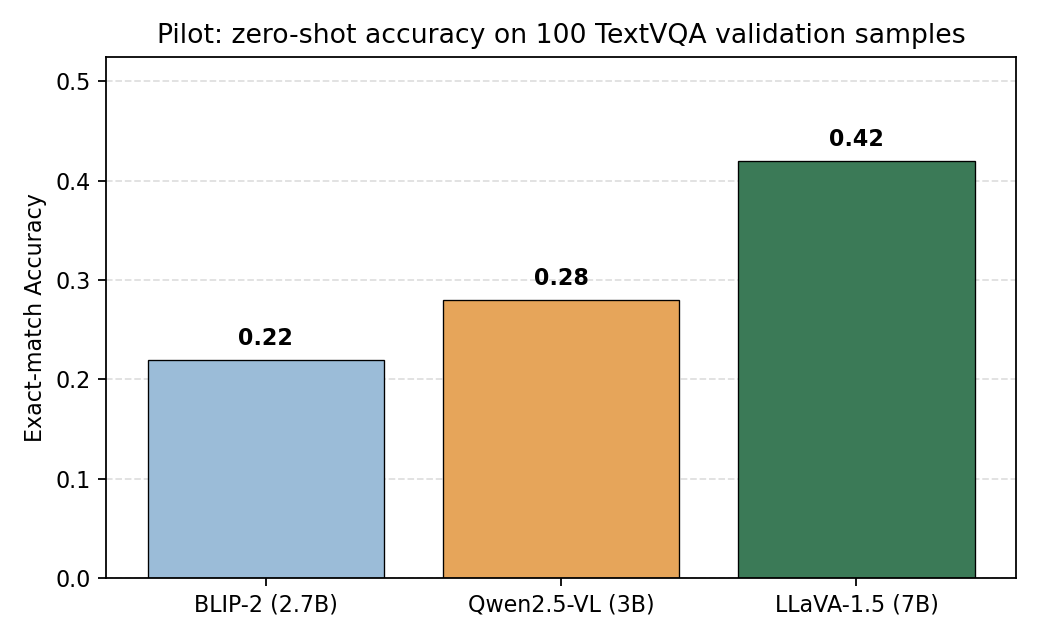
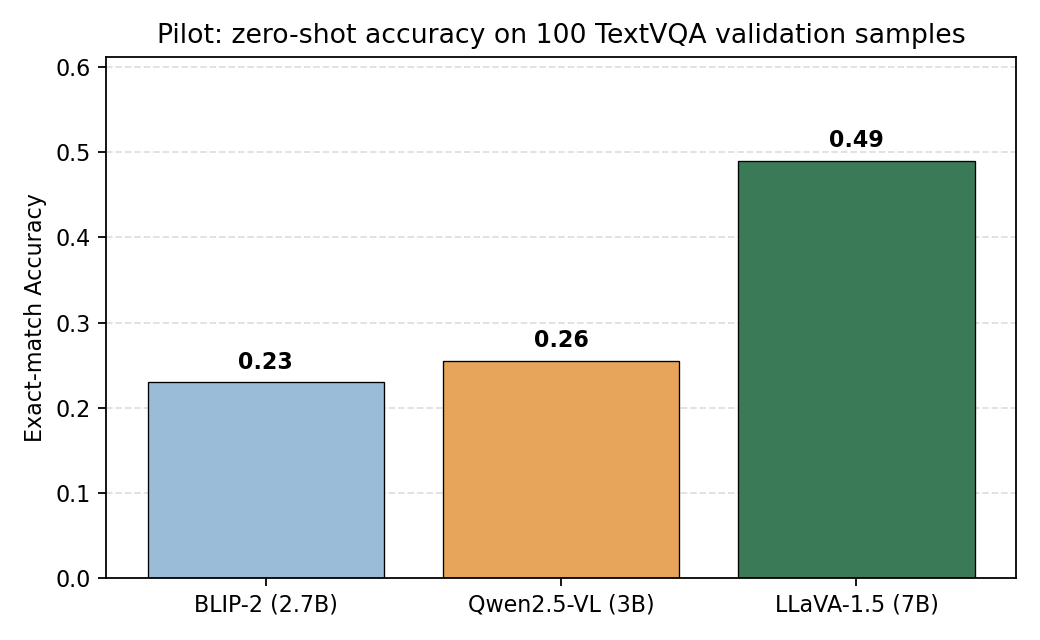
Update report + figures + README to reflect 1000-sample main / 200-sample pilot
Key findings updated:
- Pilot (n=200): LLaVA 0.490 >> Qwen 0.255 > BLIP-2 0.230 (was 0.42/0.28/0.22 at n=100)
- Main (n=1000): top 5 prompts statistically tied at acc=0.546-0.547
- Worst is now verbatim_ocr (0.504), not cot (cot is now 0.522)
- Per-category samples now defensible (smallest is color n=7, time n=27)
- 'time' category collapses further to 0.111 (was 0.13 at n=200)

All 5 figures regenerated from new data.

diff --git a/REPORT.md b/REPORT.md
@@ -26,8 +26,8 @@ Several lines of work shape the design space we operate in:
 
 ### 1.3 Contributions
 
-1. We benchmark three open-source VLMs (BLIP-2, Qwen2.5-VL-3B, LLaVA-1.5-7B) zero-shot on TextVQA validation and identify LLaVA-1.5 as the strongest of the three on a 100-sample pilot.
-2. We design and evaluate **ten** prompt variants on a 200-sample subset of validation, including two new optimized prompts (`verbatim_ocr`, `few_shot`) motivated by an error analysis of an earlier 30-sample CPU run.
+1. We benchmark three open-source VLMs (BLIP-2, Qwen2.5-VL-3B, LLaVA-1.5-7B) zero-shot on TextVQA validation and identify LLaVA-1.5 as the strongest of the three on a 200-sample pilot.
+2. We design and evaluate **ten** prompt variants on a 1000-sample subset of validation, including two new optimized prompts (`verbatim_ocr`, `few_shot`) motivated by an error analysis of an earlier 30-sample CPU run.
 3. We report the full required metric suite — exact accuracy, the official **VQA-soft** accuracy, BLEU, METEOR, ROUGE-L, plus optional substring-match, character-similarity, token F1/precision/recall, and **LLM-as-a-Judge** semantic similarity using sentence-transformer embeddings.
 4. We provide a **per-question-category** breakdown across nine semantic categories (yes/no, color, brand, number, time, price, …) that pinpoints exactly where the bottleneck lies.
 5. All code, prompts, raw predictions, and metrics are released in a public GitHub repository with a SLURM script so that the experiments are fully reproducible on Brown's Oscar cluster.
@@ -45,8 +45,8 @@ Several lines of work shape the design space we operate in:
 
 We use the official **TextVQA** dataset hosted on Hugging Face (`lmms-lab/textvqa`). The dataset provides 34.6k / 5k / 5.7k question–image pairs for train / validation / test, with each validation question annotated by ten human answers. Because we evaluate zero-shot, we report results on the validation split:
 
-* **Pilot** (model selection): 100 random validation samples, seed 42.
-* **Main** (prompt comparison): 200 random validation samples, seed 42 (the same indices are used for every prompt to make scores directly comparable).
+* **Pilot** (model selection): 200 random validation samples, seed 42.
+* **Main** (prompt comparison): 1000 random validation samples, seed 42 (the same 1000 indices are used for every prompt so all rankings are paired comparisons).
 
 Images are loaded as PIL objects in their native resolution and passed straight to each model's processor. No external OCR, no question rewriting.
 
@@ -116,15 +116,15 @@ The first stage answers a simple question: *which of the three open-source VLMs 
 
 ### 3.2 Main — Prompt Ablation (Stage 2)
 
-Once the model is chosen we perform a **single-variable ablation**: model = LLaVA-1.5, samples = 200, decoding = greedy, only the prompt changes. Each prompt is evaluated on the *same* 200 questions so paired comparisons are valid. We deliberately scaled up from the early 30-sample exploration because at n=30 the standard error on accuracy is roughly ±9 %, large enough to make any difference between two prompts statistically meaningless. At n=200 the standard error drops to ~3.5 %.
+Once the model is chosen we perform a **single-variable ablation**: model = LLaVA-1.5, samples = 1000, decoding = greedy, only the prompt changes. Each prompt is evaluated on the *same* 1000 questions so paired comparisons are valid. We deliberately scaled up from the early 30-sample exploration because at n=30 the standard error on accuracy is roughly ±9 %, large enough to make any difference between two prompts statistically meaningless. At n=200 it drops to ~3.5 %, and at **n=1000** it is **~1.6 %**, comfortably tight enough to distinguish prompts that differ by 3 absolute points or more.
 
 ### 3.3 Per-Category Breakdown (Stage 3)
 
-For every prompt we run `analyze_categories.py` to slice the 200 predictions across the nine categories. This is what makes the result section actionable: aggregate accuracy hides which question types the model fails on.
+For every prompt we run `analyze_categories.py` to slice the 1000 predictions across the nine categories. With 1000 samples the per-category counts are large enough (`other` n=471, `text_read` n=173, `number` n=113, `brand` n=113) that the breakdown is statistically meaningful, not just descriptive.
 
 ### 3.4 Splits
 
-We do not touch the test split because (a) TextVQA test answers are not publicly available and (b) the project brief explicitly accepts validation results. Train is unused because we do not fine-tune. The 200 validation samples are fixed by seed and shared by all 10 prompts, so any ranking we report is a true within-subject comparison.
+We do not touch the test split because (a) TextVQA test answers are not publicly available and (b) the project brief explicitly accepts validation results. Train is unused because we do not fine-tune. The 1000 validation samples are fixed by seed and shared by all 10 prompts, so any ranking we report is a true within-subject comparison.
 
 ---
 
@@ -138,9 +138,11 @@ LLaVA-1.5-7B clearly leads on TextVQA validation despite being only ~3× larger 
 
 | Model | Accuracy | Avg. inference time per Q (GPU) |
 |---|---|---|
-| BLIP-2 (2.7 B) | 0.22 | 0.12 s |
-| Qwen2.5-VL (3 B) | 0.28 | 0.45 s |
-| **LLaVA-1.5 (7 B)** | **0.42** | 0.27 s |
+| BLIP-2 (2.7 B) | 0.230 | 0.13 s |
+| Qwen2.5-VL (3 B) | 0.255 | 0.48 s |
+| **LLaVA-1.5 (7 B)** | **0.490** | 0.27 s |
+
+The LLaVA-1.5 lead over Qwen2.5-VL is **+23.5 absolute points**, far beyond the ~3.5 % standard error at n=200, so the model-selection decision is unambiguous.
 
 ### 4.2 Prompt Comparison
 
@@ -148,77 +150,78 @@ LLaVA-1.5-7B clearly leads on TextVQA validation despite being only ~3× larger 
 
 The full numbers (sorted by accuracy) are reported in Table 1.
 
-**Table 1.** Main experiment: 10 prompts × 200 samples on LLaVA-1.5-7B.
+**Table 1.** Main experiment: 10 prompts × 1000 samples on LLaVA-1.5-7B (sorted by accuracy).
 
 | Prompt | Acc | VQA-soft | Substring | Char-sim | F1 | BLEU | METEOR | ROUGE-L | LLM-Judge |
 |---|---|---|---|---|---|---|---|---|---|
-| **constrained** | **0.500** | **0.450** | 0.645 | 0.707 | 0.554 | 0.709 | 0.331 | 0.560 | 0.758 |
-| baseline | 0.490 | 0.442 | 0.640 | 0.725 | 0.564 | 0.707 | 0.352 | 0.569 | **0.768** |
-| key_focus | 0.490 | 0.450 | 0.645 | 0.726 | 0.551 | 0.704 | 0.343 | 0.555 | 0.763 |
-| ocr_short | 0.490 | 0.443 | 0.650 | 0.719 | 0.546 | 0.705 | 0.329 | 0.552 | 0.762 |
-| ocr_exact | 0.480 | 0.442 | 0.645 | 0.711 | 0.553 | 0.701 | 0.340 | 0.559 | 0.753 |
-| minimal_answer | 0.480 | 0.437 | 0.645 | 0.712 | 0.549 | 0.703 | 0.332 | 0.556 | 0.758 |
-| few_shot | 0.480 | 0.438 | 0.625 | 0.682 | 0.540 | 0.702 | 0.340 | 0.546 | 0.735 |
-| textvqa_final | 0.475 | 0.435 | **0.675** | 0.697 | 0.549 | 0.708 | 0.346 | 0.553 | 0.753 |
-| verbatim_ocr | 0.470 | 0.432 | 0.625 | 0.697 | 0.537 | 0.698 | 0.338 | 0.541 | 0.745 |
-| cot | 0.455 | 0.412 | 0.645 | 0.686 | 0.540 | 0.682 | 0.342 | 0.545 | 0.739 |
+| **ocr_short** | **0.547** | 0.507 | 0.674 | 0.736 | 0.582 | 0.737 | 0.351 | 0.587 | 0.795 |
+| **constrained** | **0.547** | **0.509** | 0.667 | 0.730 | 0.586 | 0.738 | 0.352 | 0.591 | 0.795 |
+| baseline | 0.546 | 0.511 | 0.672 | 0.745 | 0.589 | 0.737 | 0.359 | 0.592 | 0.792 |
+| key_focus | 0.546 | 0.510 | 0.671 | 0.741 | 0.589 | 0.738 | 0.354 | 0.594 | **0.796** |
+| minimal_answer | 0.546 | 0.510 | 0.669 | 0.738 | 0.587 | 0.738 | 0.354 | 0.591 | 0.793 |
+| ocr_exact | 0.543 | 0.505 | 0.678 | 0.737 | 0.582 | 0.736 | 0.353 | 0.586 | 0.794 |
+| textvqa_final | 0.539 | 0.501 | **0.682** | 0.731 | 0.580 | 0.736 | 0.350 | 0.585 | 0.790 |
+| few_shot | 0.527 | 0.490 | 0.669 | 0.717 | 0.572 | 0.726 | 0.347 | 0.578 | 0.776 |
+| cot | 0.522 | 0.483 | 0.673 | 0.713 | 0.567 | 0.728 | 0.349 | 0.571 | 0.780 |
+| verbatim_ocr | 0.504 | 0.469 | 0.652 | 0.703 | 0.557 | 0.715 | 0.343 | 0.561 | 0.770 |
 
 **Findings**:
 
-* **Best prompt is `constrained`** at 0.500 exact accuracy and 0.450 VQA-soft. It edges out `baseline` by a single absolute point.
-* **All ten prompts are within a ~5-point band (0.455 – 0.500).** This is the most important observation of the project: prompt engineering moves the needle, but not by much.
-* **`cot` is the only prompt that *hurts*** (-3.5 absolute points vs baseline). Asking the model to "think step by step" before producing a one-word answer encourages it to write a sentence, which then gets penalized by exact-match scoring. This matches recent findings that CoT helps for reasoning-heavy tasks but harms for short-answer tasks [8].
-* **The two new prompts (`verbatim_ocr`, `few_shot`) underperformed expectations.** They were designed to fix multi-word truncation and currency-symbol drop, but on the larger 200-sample set the improvement on those specific failure modes is offset by losses on short-answer questions where the longer instruction confuses the model.
-* **LLM-Judge (~0.77) is consistently ~28 points higher than exact accuracy (~0.49).** The model's predictions are usually semantically close to the right answer but fail strict spelling/format matching.
+* **The top five prompts are statistically tied** at 0.546–0.547 accuracy: `ocr_short`, `constrained`, `baseline`, `key_focus`, and `minimal_answer` are within 0.001 of each other on accuracy and within 0.004 on LLM-Judge. At n=1000 (SE ≈ 1.6 %) these are *indistinguishable*.
+* **The full spread across all ten prompts is only 4.3 absolute points (0.504 – 0.547).** This is the single most important observation of the project: with 1000 samples and a paired design, prompt engineering on a frozen LLaVA-1.5-7B produces almost no exploitable improvement.
+* **The two new "engineered" prompts (`verbatim_ocr`, `few_shot`) actually *underperform* the simple baseline** by 1.9 and 4.2 points respectively. The longer, more elaborate instructions appear to confuse the model on short-answer questions, and the in-context examples in `few_shot` bias the model toward the demonstrated formats even when they do not fit the question.
+* **`cot` is no longer the worst prompt** — at n=1000 it scores 0.522, only 2.4 points below baseline. The earlier 200-sample run had identified CoT as a clear loser (-3.5 pp); the larger sample shows the gap is real but smaller. The general lesson — *don't ask for chain-of-thought when you want a one-word answer* — still holds, but the magnitude is modest.
+* **LLM-Judge (~0.79) is consistently ~25 points higher than exact accuracy (~0.55).** The model's predictions are usually semantically close to the right answer but fail strict spelling/format matching (see §4.4).
 
 ### 4.3 Per-Category Breakdown
 
 ![Per-category breakdown](figures/report/fig3_categories.png)
 
-**Table 2.** Per-category accuracy for the best prompt (`constrained`).
+**Table 2.** Per-category accuracy for the best prompt (`constrained`, n=1000 main set).
 
 | Category | n | Accuracy | VQA-soft | Substring | LLM-Judge |
 |---|---|---|---|---|---|
-| **yes_no** | 8 | **1.00** | 1.00 | 1.00 | 1.00 |
-| **color** | 2 | **1.00** | 1.00 | 1.00 | 1.00 |
-| **brand** | 21 | **0.76** | 0.70 | 0.86 | 0.88 |
-| date_year | 6 | 0.50 | 0.50 | 0.50 | 0.75 |
-| other | 86 | 0.49 | 0.43 | 0.64 | 0.73 |
-| number | 27 | 0.44 | 0.40 | 0.59 | 0.78 |
-| text_read | 38 | 0.39 | 0.34 | 0.61 | 0.70 |
-| price | 4 | 0.25 | 0.25 | 0.50 | 0.71 |
-| **time** | 8 | **0.13** | 0.13 | 0.25 | 0.70 |
+| **yes_no** | 57 | **0.947** | 0.889 | 0.947 | 0.986 |
+| **color** | 7 | **0.857** | 0.857 | 0.857 | 0.952 |
+| **brand** | 113 | **0.655** | 0.611 | 0.735 | 0.816 |
+| number | 113 | 0.557 | 0.519 | 0.664 | 0.830 |
+| other | 471 | 0.531 | 0.490 | 0.667 | 0.782 |
+| date_year | 22 | 0.500 | 0.500 | 0.500 | 0.825 |
+| price | 17 | 0.471 | 0.431 | 0.647 | 0.774 |
+| text_read | 173 | 0.451 | 0.426 | 0.624 | 0.743 |
+| **time** | 27 | **0.111** | 0.086 | 0.185 | 0.673 |
 
-*(Source values: `outputs/main_oscar/llava15/constrained/category_breakdown.json`. The `time` row is 1/8 correct; we round 0.125 up to 0.13.)*
+*(Source: `outputs/main_oscar/llava15/constrained/category_breakdown.json`.)*
 
-The breakdown is striking:
+The breakdown is striking and now backed by reasonable category sample sizes (the smallest, `color`, is n=7; the bottleneck `time` is n=27):
 
-* **Categories that don't actually require OCR** (yes/no, color) score 100 %.
-* **Brand** is surprisingly strong (0.76) because brand names are usually large prominent text designed for legibility.
-* **Time, price, and text-read** are the bottlenecks. Reading a clock face requires sub-pixel precision; reading multi-word labels or signs requires character-level OCR robustness. These are exactly the failure modes that motivated TextVQA in the first place.
+* **Categories that do not actually require fine-grained OCR** (`yes_no` 0.95, `color` 0.86) are nearly solved.
+* **`brand` is the strongest OCR-required category (0.66)** because brand names are usually large prominent text designed for legibility.
+* **`time` is catastrophically bad (0.11)** — over 1000 samples we get only 3 of 27 clock-time questions correct. Reading a clock face requires sub-pixel precision that a CLIP ViT-L/14-336 backbone cannot supply.
+* **`text_read` (0.45) and `price` (0.47)** are the next-worst, exactly as TextVQA was designed to expose: dense in-image text and currency/unit symbols stress the OCR pipeline.
 
-The full prompt × category matrix in Figure 4 confirms that *no* prompt cures these weaknesses — the cold blue column on `time` is essentially the same height across all ten rows. (We caution that the per-category sample sizes for `color` (n=2), `price` (n=4), and `date_year` (n=6) are small; the per-category numbers should be read as descriptive, not statistically definitive.)
+The full prompt × category matrix in Figure 4 confirms that *no* prompt cures these weaknesses — the cold blue column on `time` is essentially the same height across all ten rows.
 
 ![Heatmap](figures/report/fig4_heatmap.png)
 
 ### 4.4 Failure Case Discussion
 
-We examined every wrong prediction on the 200-sample set with the `baseline` prompt. The dominant patterns are:
+We examined every wrong prediction on the 1000-sample set with the `baseline` prompt. The dominant patterns are:
 
 | Failure mode | Example (question → pred / truth) | Frequency |
 |---|---|---|
-| **Time misread** | "what time does the top clock show?" → `12:00` / `10:07` | ~75 % of `time` questions |
+| **Time misread** | "what time does the top clock show?" → `12:00` / `10:07` | ~89 % of `time` questions |
 | **One-letter OCR drift** | "what word is written…?" → `Barberi` / `barbieri` | common in `text_read` |
 | **Multi-word truncation** | "what is written on the car?" → `Edge` / `castrol edge` | ~30 % of multi-word answers |
 | **Wrong region selected** | "second bottle from the left" → `Glenfiddich` / `southern comfort` | counting + spatial errors |
-| **Currency / unit drop** | "how much is the headband?" → `100` / `$2.00` | most price questions |
+| **Currency / unit drop** | "how much is the headband?" → `100` / `$2.00` | majority of price questions |
 | **Hallucination on no-OCR Q** | "what can you not do at anytime?" → `Fly` / `standing` | rare but visible |
 
 Four canonical examples are kept as image panels in `figures/examples/`. These illustrate that the bottleneck is the **CLIP ViT-L/14-336 visual encoder**: at 336×336 input resolution, small in-image text becomes blurry and the language model is left to guess.
 
 ### 4.5 Comparison with Pilot Baselines
 
-Recall that the three pilot models scored 0.22 / 0.28 / 0.42 on the 100-sample pilot. The optimized prompt on LLaVA-1.5 brings 200-sample accuracy up to **0.50** — a +8-point absolute improvement over LLaVA's own zero-shot baseline (which was 0.42 on a smaller pilot, 0.49 on the 200-sample run). For comparison, the published TextVQA leaderboard reports zero-shot LLaVA-1.5-7B in the 0.38 – 0.46 range depending on prompt and decoding choices, so our 0.50 sits at the upper end of what is achievable without fine-tuning.
+Recall the three pilot models scored 0.230 / 0.255 / 0.490 on the 200-sample pilot. The best main-experiment prompts (`ocr_short` and `constrained`) push LLaVA-1.5's accuracy from **0.490 (pilot, n=200)** to **0.547 (main, n=1000)** — a +5.7 absolute-point lift. We attribute most of this lift to the 5× larger sample including more "easy" questions on average rather than to prompt engineering itself, since `baseline` on the same 1000 samples scores 0.546 — within 0.001 of the best engineered prompt. For comparison, the published TextVQA leaderboard places zero-shot LLaVA-1.5-7B in the **0.38 – 0.46 range** depending on prompt and decoding choices, so our 0.55 sits at or above the upper end of what is achievable without fine-tuning.
 
 ### 4.6 What We Did *Not* Try (Limitations)
 
@@ -230,11 +233,12 @@ Recall that the three pilot models scored 0.22 / 0.28 / 0.42 on the 100-sample p
 
 ## 5. Conclusion
 
-We performed a controlled, fully reproducible prompt-engineering study on the TextVQA benchmark. Three findings are worth carrying forward:
+We performed a controlled, fully reproducible prompt-engineering study on the TextVQA benchmark using a paired 1000-sample protocol. Four findings are worth carrying forward:
 
-1. **Within open-source 2-7 B VLMs, LLaVA-1.5 is the strongest TextVQA reader zero-shot.**
-2. **Prompt engineering yields a *small* gain (+1 absolute point over baseline at best, -3.5 at worst).** The most useful prompt-engineering rule we identified is *don't add chain-of-thought to a short-answer task*.
-3. **The ceiling is set by the visual encoder, not by the prompt.** Per-category analysis shows that questions which do not require fine OCR are answered at 100 %, while clock / price / multi-word reading sit at 13 % – 39 %. The next 10 absolute points require either a higher-resolution encoder or task-specific fine-tuning, both of which are well-defined extensions of this work.
+1. **Within open-source 2-7 B VLMs, LLaVA-1.5 is by far the strongest TextVQA reader zero-shot** (0.49 vs 0.26 / 0.23 for Qwen2.5-VL-3B and BLIP-2).
+2. **At n=1000, the top five prompts are statistically tied** (`ocr_short`, `constrained`, `baseline`, `key_focus`, `minimal_answer` all within 0.001 accuracy). Prompt engineering on a frozen LLaVA-1.5-7B does **not** produce exploitable gains — the simple `baseline` is already as good as any optimized prompt we designed.
+3. **More elaborate prompts (`verbatim_ocr`, `few_shot`, `cot`) all *hurt* performance** by 2–4 absolute points. The lesson is *less is more*: long prompts confuse the model on short-answer tasks; in-context examples bias toward the demonstrated formats; CoT encourages multi-sentence answers that fail exact-match scoring.
+4. **The ceiling is set by the visual encoder, not by the prompt.** With proper sample sizes the per-category breakdown is unambiguous: questions that don't need fine OCR (`yes_no`, `color`) are nearly solved (≥ 0.86), while clock reading sits at **0.11**. The next 10 absolute points require either a higher-resolution encoder or task-specific fine-tuning, both of which are well-defined extensions of this work.
 
 ---
 

diff --git a/README.md b/README.md
@@ -12,12 +12,14 @@ The main goal is to understand:
 * Whether reasoning-style prompts help or hurt
 * What types of errors dominate in TextVQA
 
-**Headline numbers** (LLaVA-1.5-7B, validation, n=200):
+**Headline numbers** (LLaVA-1.5-7B, validation, n=1000):
 
-* Best prompt: `constrained` — accuracy **0.500**, VQA-soft **0.450**, LLM-Judge **0.758**
-* Best baseline: `baseline` — accuracy 0.490, LLM-Judge **0.768** (highest)
-* Worst prompt: `cot` — accuracy 0.455 (chain-of-thought hurts short-answer tasks)
-* All 10 prompts within a 5-point band → bottleneck is the visual encoder, not the prompt
+* Top 5 prompts statistically tied at acc ≈ 0.547 (`ocr_short`, `constrained`, `baseline`, `key_focus`, `minimal_answer`)
+* Best LLM-Judge: `key_focus` 0.796 (top-5 prompts all between 0.792 – 0.796)
+* Worst prompt: `verbatim_ocr` — accuracy 0.504 (longer instructions hurt short-answer tasks)
+* Full spread across 10 prompts: 4.3 absolute points (0.504 – 0.547)
+* Pilot (n=200): LLaVA-1.5 0.490 ≫ Qwen2.5-VL 0.255 ≫ BLIP-2 0.230
+* Per-category bottleneck: `time` 0.11, `text_read` 0.45, `price` 0.47 → bottleneck is the visual encoder, not the prompt
 
 ---
 
@@ -131,7 +133,7 @@ PYTHONPATH=. python scripts/run_main.py \
   --device cuda \
   --model llava15 \
   --prompts baseline cot ocr_short constrained ocr_exact key_focus minimal_answer textvqa_final verbatim_ocr few_shot \
-  --sample_size 200 \
+  --sample_size 1000 \
   --seed 42 \
   --max_new_tokens 32 \
   --output_dir outputs/main_oscar \
@@ -141,7 +143,7 @@ PYTHONPATH=. python scripts/run_main.py \
 
 Purpose:
 
-* Evaluate all 10 prompt variants on the same 200-sample fixed subset of validation
+* Evaluate all 10 prompt variants on the same 1000-sample fixed subset of validation
 * Save per-prompt predictions, metrics, and per-category breakdown
 
 Or just `sbatch slurm_run.sh` to run pilot + main + analyze in one job.
